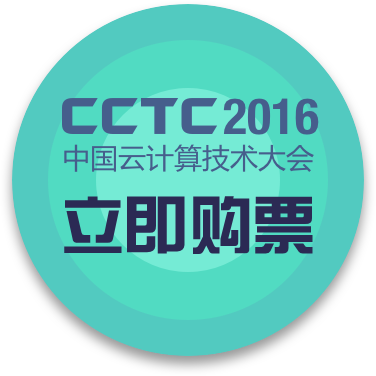
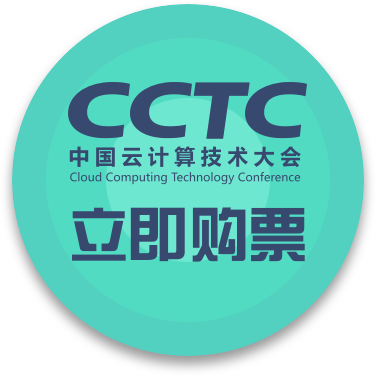
LOGO修改

Changed region(s): [[0.1463, 0.2048, 0.8484, 0.7314]]

diff --git a/index.html b/index.html
@@ -20,11 +20,11 @@
                 <div class="row">
                     <div class="col-md-12 col-sm-12 col-xs-12">
                         <div class="row">
-                            <div class="banner_lf col-md-8 col-sm-6 col-xs-12">
-                                <img src=""/>
-                                <span>中国云计算技术大会</span>
+                            <div class="banner_lf col-md-4 col-sm-6 col-xs-12">
+                                <img src="images/CCTC_cloud.png"/>
+                                <!--<span>中国云计算技术大会</span>-->
                             </div>
-                            <div class="banner_rt col-md-4 col-sm-6 col-xs-12">
+                            <div class="banner_rt col-md-8 col-sm-6 col-xs-12">
                                 <span><img src="images/time.png"/>2016年5月13-14日</span>
                                 <span><img src="images/map.png">北京</span>
                             </div>
@@ -251,46 +251,46 @@
                         <tr>
                             <td style="border-right: none;border-bottom: 2px solid #ced8e1;" rowspan="5" class="table_date col-md-2 col-sm-2 col-xs-2">5.12</td>
                             <td class="col-md-5 col-sm-5 col-xs-5"><span>中美未来的机遇与挑战</span><a href="javascript:;"><img src="images/table_icon.png"/></a>
-                            <div class="pops_box">“中国OpenStack技术峰会”、“中国Spark技术峰会”、“Container技术峰会”三大技术实践峰会带来行业内顶尖技术分享</div>
+                            <div class="pops_box">“中国OpenStack技术峰会”、“中国Spark技术峰会”、“Container技术峰会”三大技术实践峰会带来行业内顶尖技术分享<img src="images/Slice_22.png"/></div>
                             </td>
                             <td class="col-md-5 col-sm-5 col-xs-5"><span>中美未来的机遇与挑战</span><a href="javascript:;"><img src="images/table_icon.png"/></a>
-                                <div class="pops_box">“中国OpenStack技术峰会”、“中国Spark技术峰会”、“Container技术峰会”三大技术实践峰会带来行业内顶尖技术分享</div>
+                                <div class="pops_box">“中国OpenStack技术峰会”、“中国Spark技术峰会”、“Container技术峰会”三大技术实践峰会带来行业内顶尖技术分享<img src="images/Slice_22.png"/></div>
                             </td>
                         </tr>
                         <tr>
 
                             <td class="col-md-5 col-sm-5 col-xs-5"><span>Container技术峰会</span><a href="javascript:;"><img src="images/table_icon.png"/></a>
-                                <div class="pops_box">“中国OpenStack技术峰会”、“中国Spark技术峰会”、“Container技术峰会”三大技术实践峰会带来行业内顶尖技术分享</div>
+                                <div class="pops_box">“中国OpenStack技术峰会”、“中国Spark技术峰会”、“Container技术峰会”三大技术实践峰会带来行业内顶尖技术分享<img src="images/Slice_22.png"/></div>
                             </td>
                             <td class="col-md-5 col-sm-5 col-xs-5"><span>Container技术峰会</span><a href="javascript:;"><img src="images/table_icon.png"/></a>
-                                <div class="pops_box">“中国OpenStack技术峰会”、“中国Spark技术峰会”、“Container技术峰会”三大技术实践峰会带来行业内顶尖技术分享</div>
-                            </td>
-                        </tr>
-                        <tr>
-
-                            <td class="col-md-5 col-sm-5 col-xs-5"><span>Container技术峰会</span><a href="javascript:;"><img src="images/table_icon.png"/></a>
-                                <div class="pops_box">“中国OpenStack技术峰会”、“中国Spark技术峰会”、“Container技术峰会”三大技术实践峰会带来行业内顶尖技术分享</div>
-                            </td>
-                            <td class="col-md-5 col-sm-5 col-xs-5"><span>Container技术峰会</span><a href="javascript:;"><img src="images/table_icon.png"/></a>
-                                <div class="pops_box">“中国OpenStack技术峰会”、“中国Spark技术峰会”、“Container技术峰会”三大技术实践峰会带来行业内顶尖技术分享</div>
+                                <div class="pops_box">“中国OpenStack技术峰会”、“中国Spark技术峰会”、“Container技术峰会”三大技术实践峰会带来行业内顶尖技术分享<img src="images/Slice_22.png"/></div>
                             </td>
                         </tr>
                         <tr>
 
                             <td class="col-md-5 col-sm-5 col-xs-5"><span>Container技术峰会</span><a href="javascript:;"><img src="images/table_icon.png"/></a>
-                                <div class="pops_box">“中国OpenStack技术峰会”、“中国Spark技术峰会”、“Container技术峰会”三大技术实践峰会带来行业内顶尖技术分享</div>
+                                <div class="pops_box">“中国OpenStack技术峰会”、“中国Spark技术峰会”、“Container技术峰会”三大技术实践峰会带来行业内顶尖技术分享<img src="images/Slice_22.png"/></div>
                             </td>
                             <td class="col-md-5 col-sm-5 col-xs-5"><span>Container技术峰会</span><a href="javascript:;"><img src="images/table_icon.png"/></a>
-                                <div class="pops_box">“中国OpenStack技术峰会”、“中国Spark技术峰会”、“Container技术峰会”三大技术实践峰会带来行业内顶尖技术分享</div>
+                                <div class="pops_box">“中国OpenStack技术峰会”、“中国Spark技术峰会”、“Container技术峰会”三大技术实践峰会带来行业内顶尖技术分享<img src="images/Slice_22.png"/></div>
+                            </td>
+                        </tr>
+                        <tr>
+
+                            <td class="col-md-5 col-sm-5 col-xs-5"><span>Container技术峰会</span><a href="javascript:;"><img src="images/table_icon.png"/></a>
+                                <div class="pops_box">“中国OpenStack技术峰会”、“中国Spark技术峰会”、“Container技术峰会”三大技术实践峰会带来行业内顶尖技术分享<img src="images/Slice_22.png"/></div>
+                            </td>
+                            <td class="col-md-5 col-sm-5 col-xs-5"><span>Container技术峰会</span><a href="javascript:;"><img src="images/table_icon.png"/></a>
+                                <div class="pops_box">“中国OpenStack技术峰会”、“中国Spark技术峰会”、“Container技术峰会”三大技术实践峰会带来行业内顶尖技术分享<img src="images/Slice_22.png"/></div>
                             </td>
                         </tr>
                         <tr class="last_line">
 
                             <td class="col-md-5 col-sm-5 col-xs-5"><span>Container技术峰会</span><a href="javascript:;"><img src="images/table_icon.png"/></a>
-                                <div class="pops_box">“中国OpenStack技术峰会”、“中国Spark技术峰会”、“Container技术峰会”三大技术实践峰会带来行业内顶尖技术分享</div>
+                                <div class="pops_box">“中国OpenStack技术峰会”、“中国Spark技术峰会”、“Container技术峰会”三大技术实践峰会带来行业内顶尖技术分享<img src="images/Slice_22.png"/></div>
                             </td>
                             <td class="col-md-5 col-sm-5 col-xs-5"><span>Container技术峰会</span><a href="javascript:;"><img src="images/table_icon.png"/></a>
-                                <div class="pops_box">“中国OpenStack技术峰会”、“中国Spark技术峰会”、“Container技术峰会”三大技术实践峰会带来行业内顶尖技术分享</div>
+                                <div class="pops_box">“中国OpenStack技术峰会”、“中国Spark技术峰会”、“Container技术峰会”三大技术实践峰会带来行业内顶尖技术分享<img src="images/Slice_22.png"/></div>
                             </td>
                         </tr>
 
@@ -300,45 +300,45 @@
                         <tr>
                             <td style="border-right: none;border-bottom: 2px solid #ced8e1;" rowspan="5" class="table_date col-md-2 col-sm-2 col-xs-2">5.13</td>
                             <td class="col-md-5 col-sm-5 col-xs-5"><span>中美未来的机遇与挑战</span><a href="javascript:;"><img src="images/table_icon.png"/></a>
-                                <div class="pops_box">“中国OpenStack技术峰会”、“中国Spark技术峰会”、“Container技术峰会”三大技术实践峰会带来行业内顶尖技术分享</div>
+                                <div class="pops_box">“中国OpenStack技术峰会”、“中国Spark技术峰会”、“Container技术峰会”三大技术实践峰会带来行业内顶尖技术分享<img src="images/Slice_22.png"/></div>
                             </td>
                             <td class="col-md-5 col-sm-5 col-xs-5"><span>中美未来的机遇与挑战</span><a href="javascript:;"><img src="images/table_icon.png"/></a>
-                                <div class="pops_box">“中国OpenStack技术峰会”、“中国Spark技术峰会”、“Container技术峰会”三大技术实践峰会带来行业内顶尖技术分享</div>
+                                <div class="pops_box">“中国OpenStack技术峰会”、“中国Spark技术峰会”、“Container技术峰会”三大技术实践峰会带来行业内顶尖技术分享<img src="images/Slice_22.png"/></div>
                             </td>
                         </tr>
                         <tr>
                             <td class="col-md-5 col-sm-5 col-xs-5"><span>Container技术峰会</span><a href="javascript:;"><img src="images/table_icon.png"/></a>
-                                <div class="pops_box">“中国OpenStack技术峰会”、“中国Spark技术峰会”、“Container技术峰会”三大技术实践峰会带来行业内顶尖技术分享</div>
+                                <div class="pops_box">“中国OpenStack技术峰会”、“中国Spark技术峰会”、“Container技术峰会”三大技术实践峰会带来行业内顶尖技术分享<img src="images/Slice_22.png"/></div>
                             </td>
                             <td class="col-md-5 col-sm-5 col-xs-5"><span>Container技术峰会</span><a href="javascript:;"><img src="images/table_icon.png"/></a>
-                                <div class="pops_box">“中国OpenStack技术峰会”、“中国Spark技术峰会”、“Container技术峰会”三大技术实践峰会带来行业内顶尖技术分享</div>
-                            </td>
-                        </tr>
-                        <tr>
-
-                            <td class="col-md-5 col-sm-5 col-xs-5"><span>Container技术峰会</span><a href="javascript:;"><img src="images/table_icon.png"/></a>
-                                <div class="pops_box">“中国OpenStack技术峰会”、“中国Spark技术峰会”、“Container技术峰会”三大技术实践峰会带来行业内顶尖技术分享</div>
-                            </td>
-                            <td class="col-md-5 col-sm-5 col-xs-5"><span>Container技术峰会</span><a href="javascript:;"><img src="images/table_icon.png"/></a>
-                                <div class="pops_box">“中国OpenStack技术峰会”、“中国Spark技术峰会”、“Container技术峰会”三大技术实践峰会带来行业内顶尖技术分享</div>
+                                <div class="pops_box">“中国OpenStack技术峰会”、“中国Spark技术峰会”、“Container技术峰会”三大技术实践峰会带来行业内顶尖技术分享<img src="images/Slice_22.png"/></div>
                             </td>
                         </tr>
                         <tr>
 
                             <td class="col-md-5 col-sm-5 col-xs-5"><span>Container技术峰会</span><a href="javascript:;"><img src="images/table_icon.png"/></a>
-                                <div class="pops_box">“中国OpenStack技术峰会”、“中国Spark技术峰会”、“Container技术峰会”三大技术实践峰会带来行业内顶尖技术分享</div>
+                                <div class="pops_box">“中国OpenStack技术峰会”、“中国Spark技术峰会”、“Container技术峰会”三大技术实践峰会带来行业内顶尖技术分享<img src="images/Slice_22.png"/></div>
                             </td>
                             <td class="col-md-5 col-sm-5 col-xs-5"><span>Container技术峰会</span><a href="javascript:;"><img src="images/table_icon.png"/></a>
-                                <div class="pops_box">“中国OpenStack技术峰会”、“中国Spark技术峰会”、“Container技术峰会”三大技术实践峰会带来行业内顶尖技术分享</div>
+                                <div class="pops_box">“中国OpenStack技术峰会”、“中国Spark技术峰会”、“Container技术峰会”三大技术实践峰会带来行业内顶尖技术分享<img src="images/Slice_22.png"/></div>
+                            </td>
+                        </tr>
+                        <tr>
+
+                            <td class="col-md-5 col-sm-5 col-xs-5"><span>Container技术峰会</span><a href="javascript:;"><img src="images/table_icon.png"/></a>
+                                <div class="pops_box">“中国OpenStack技术峰会”、“中国Spark技术峰会”、“Container技术峰会”三大技术实践峰会带来行业内顶尖技术分享<img src="images/Slice_22.png"/></div>
+                            </td>
+                            <td class="col-md-5 col-sm-5 col-xs-5"><span>Container技术峰会</span><a href="javascript:;"><img src="images/table_icon.png"/></a>
+                                <div class="pops_box">“中国OpenStack技术峰会”、“中国Spark技术峰会”、“Container技术峰会”三大技术实践峰会带来行业内顶尖技术分享<img src="images/Slice_22.png"/></div>
                             </td>
                         </tr>
                         <tr class="last_line">
 
                             <td class="col-md-5 col-sm-5 col-xs-5"><span>Container技术峰会</span><a href="javascript:;"><img src="images/table_icon.png"/></a>
-                                <div class="pops_box">“中国OpenStack技术峰会”、“中国Spark技术峰会”、“Container技术峰会”三大技术实践峰会带来行业内顶尖技术分享</div>
+                                <div class="pops_box">“中国OpenStack技术峰会”、“中国Spark技术峰会”、“Container技术峰会”三大技术实践峰会带来行业内顶尖技术分享<img src="images/Slice_22.png"/></div>
                             </td>
                             <td class="col-md-5 col-sm-5 col-xs-5"><span>Container技术峰会</span><a href="javascript:;"><img src="images/table_icon.png"/></a>
-                                <div class="pops_box">“中国OpenStack技术峰会”、“中国Spark技术峰会”、“Container技术峰会”三大技术实践峰会带来行业内顶尖技术分享</div>
+                                <div class="pops_box">“中国OpenStack技术峰会”、“中国Spark技术峰会”、“Container技术峰会”三大技术实践峰会带来行业内顶尖技术分享<img src="images/Slice_22.png"/></div>
                             </td>
                         </tr>
                         </tbody>
@@ -347,36 +347,36 @@
                         <tr>
                             <td style="border-right: none;" rowspan="5" class="table_date col-md-2 col-sm-2 col-xs-2">5.14</td>
                             <td class="col-md-5 col-sm-5 col-xs-5"><span>中美未来的机遇与挑战</span><a href="javascript:;"><img src="images/table_icon.png"/></a>
-                                <div class="pops_box">“中国OpenStack技术峰会”、“中国Spark技术峰会”、“Container技术峰会”三大技术实践峰会带来行业内顶尖技术分享</div>
+                                <div class="pops_box">“中国OpenStack技术峰会”、“中国Spark技术峰会”、“Container技术峰会”三大技术实践峰会带来行业内顶尖技术分享<img src="images/Slice_22.png"/></div>
                             </td>
                             <td class="col-md-5 col-sm-5 col-xs-5"><span>中美未来的机遇与挑战</span><a href="javascript:;"><img src="images/table_icon.png"/></a>
-                                <div class="pops_box">“中国OpenStack技术峰会”、“中国Spark技术峰会”、“Container技术峰会”三大技术实践峰会带来行业内顶尖技术分享</div>
+                                <div class="pops_box">“中国OpenStack技术峰会”、“中国Spark技术峰会”、“Container技术峰会”三大技术实践峰会带来行业内顶尖技术分享<img src="images/Slice_22.png"/></div>
                             </td>
                         </tr>
                         <tr>
                             <td class="col-md-5 col-sm-5 col-xs-5"><span>Container技术峰会</span><a href="javascript:;"><img src="images/table_icon.png"/></a>
-                                <div class="pops_box">“中国OpenStack技术峰会”、“中国Spark技术峰会”、“Container技术峰会”三大技术实践峰会带来行业内顶尖技术分享</div>
+                                <div class="pops_box">“中国OpenStack技术峰会”、“中国Spark技术峰会”、“Container技术峰会”三大技术实践峰会带来行业内顶尖技术分享<img src="images/Slice_22.png"/></div>
                             </td>
                             <td class="col-md-5 col-sm-5 col-xs-5"><span>Container技术峰会</span><a href="javascript:;"><img src="images/table_icon.png"/></a>
-                                <div class="pops_box">“中国OpenStack技术峰会”、“中国Spark技术峰会”、“Container技术峰会”三大技术实践峰会带来行业内顶尖技术分享</div>
-                            </td>
-                        </tr>
-                        <tr>
-
-                            <td class="col-md-5 col-sm-5 col-xs-5"><span>Container技术峰会</span><a href="javascript:;"><img src="images/table_icon.png"/></a>
-                                <div style="top: -90px" class="pops_box">“中国OpenStack技术峰会”、“中国Spark技术峰会”、“Container技术峰会”三大技术实践峰会带来行业内顶尖技术分享</div>
-                            </td>
-                            <td class="col-md-5 col-sm-5 col-xs-5"><span>Container技术峰会</span><a href="javascript:;"><img src="images/table_icon.png"/></a>
-                                <div style="top: -90px" class="pops_box">“中国OpenStack技术峰会”、“中国Spark技术峰会”、“Container技术峰会”三大技术实践峰会带来行业内顶尖技术分享</div>
+                                <div class="pops_box">“中国OpenStack技术峰会”、“中国Spark技术峰会”、“Container技术峰会”三大技术实践峰会带来行业内顶尖技术分享<img src="images/Slice_22.png"/></div>
                             </td>
                         </tr>
                         <tr>
 
                             <td class="col-md-5 col-sm-5 col-xs-5"><span>Container技术峰会</span><a href="javascript:;"><img src="images/table_icon.png"/></a>
-                                <div style="top: -90px" class="pops_box">“中国OpenStack技术峰会”、“中国Spark技术峰会”、“Container技术峰会”三大技术实践峰会带来行业内顶尖技术分享</div>
+                                <div style="top: -100px" class="pops_box">“中国OpenStack技术峰会”、“中国Spark技术峰会”、“Container技术峰会”三大技术实践峰会带来行业内顶尖技术分享<img style="top: 100px;-webkit-transform:rotate(180deg)" src="images/Slice_22.png"/></div>
                             </td>
                             <td class="col-md-5 col-sm-5 col-xs-5"><span>Container技术峰会</span><a href="javascript:;"><img src="images/table_icon.png"/></a>
-                                <div style="top: -90px" class="pops_box">“中国OpenStack技术峰会”、“中国Spark技术峰会”、“Container技术峰会”三大技术实践峰会带来行业内顶尖技术分享</div>
+                                <div style="top: -100px" class="pops_box">“中国OpenStack技术峰会”、“中国Spark技术峰会”、“Container技术峰会”三大技术实践峰会带来行业内顶尖技术分享<img style="top: 100px;-webkit-transform:rotate(180deg)" src="images/Slice_22.png"/></div>
+                            </td>
+                        </tr>
+                        <tr>
+
+                            <td class="col-md-5 col-sm-5 col-xs-5"><span>Container技术峰会</span><a href="javascript:;"><img src="images/table_icon.png"/></a>
+                                <div style="top: -100px" class="pops_box">“中国OpenStack技术峰会”、“中国Spark技术峰会”、“Container技术峰会”三大技术实践峰会带来行业内顶尖技术分享<img style="top: 100px;-webkit-transform:rotate(180deg)" src="images/Slice_22.png"/></div>
+                            </td>
+                            <td class="col-md-5 col-sm-5 col-xs-5"><span>Container技术峰会</span><a href="javascript:;"><img src="images/table_icon.png"/></a>
+                                <div style="top: -100px" class="pops_box">“中国OpenStack技术峰会”、“中国Spark技术峰会”、“Container技术峰会”三大技术实践峰会带来行业内顶尖技术分享<img style="top: 100px;-webkit-transform:rotate(180deg)" src="images/Slice_22.png"/></div>
                             </td>
                         </tr>
                         </tbody>
@@ -446,8 +446,8 @@
                             </thead>
                             <tbody class="table_boy_commend">
                                 <tr>
-                                    <td rowspan="5" class="table_date col-md-3 col-sm-3 col-xs-3">5.14</td>
-                                    <td style="background: #f2f5fa;font-size: 14px;color:#37496E;padding-top: 25px" class="col-md-3 col-sm-3 col-xs-3">08:30-12:00</td>
+                                    <td rowspan="5" id="table_data_Commend" class="table_date col-md-3 col-sm-3 col-xs-3">5.14</td>
+                                    <td style="font-size: 14px;color:#37496E;padding-top: 25px" class="col-md-3 col-sm-3 col-xs-3 table_boy_commend_middle">08:30-12:00</td>
                                     <td class="col-md-6 col-sm-6 col-xs-6 Commend_first">
                                         <span>全体大会全体大会</span>
                                         <em>尼克松</em>
@@ -455,7 +455,7 @@
                                     </td>
                                 </tr>
                                 <tr>
-                                    <td style="background: #f2f5fa" class="col-md-3 col-sm-3 col-xs-3"><span style="display: block;position: relative;top:-52px">13:30-18:00</span></td>
+                                    <td class="col-md-3 col-sm-3 col-xs-3 table_boy_commend_middle"><span style="display: block;position: relative;top:-52px">13:30-18:00</span></td>
                                     <td class="col-md-6 col-sm-6 col-xs-6 commend_second" style="text-align: left"><span>OpenSack技术峰会</span>
                                     <em class="col-md-12 col-sm-12 col-xs-12">白小勇<br>炼石网络CipherGateway</em>
                                     <em class="col-md-12 col-sm-12 col-xs-12">白小勇<br>炼石网络CipherGateway</em>
@@ -463,11 +463,11 @@
                                     </td>
                                 </tr>
                                 <tr >
-                                    <td style="background: #f2f5fa" class="col-md-3 col-sm-3 col-xs-3">19:00-21:00</td>
+                                    <td class="col-md-3 col-sm-3 col-xs-3 table_boy_commend_middle">19:00-21:00</td>
                                     <td class="col-md-3 col-sm-3 col-xs-3 Commend_first"><span style="margin-top: 16px">程序人生</span><em style="margin-top: 18px">尼克松</em><div class="under_line"></div></td>
                                 </tr>
                                 <tr>
-                                    <td style="background: #f2f5fa" class="col-md-3 col-sm-3 col-xs-3"><span style="position: relative;top: 20px">08:30-12:00</span></td>
+                                    <td class="col-md-3 col-sm-3 col-xs-3 table_boy_commend_middle"><span style="position: relative;top: 20px">08:30-12:00</span></td>
                                     <td class="col-md-3 col-sm-3 col-xs-3 Commend_first"><span>全体大会全体大会</span><em>尼克松</em></td>
                                 </tr>
                             </tbody>
@@ -498,8 +498,8 @@
             </div>
                 <div class="guest_speaker">
                     <div class="row">
-                        <h2 class="meet_title col-xs-12">演讲嘉宾</h2>
-                        <a href="#" id="check_more_mobile" class="check_more col-xs-12">查看更多</a>
+                        <h2 class="meet_title col-xs-12 col-md-10 col-sm-9">演讲嘉宾</h2>
+                        <a href="#" id="check_more_mobile" class="check_more col-xs-12 col-md-2 col-sm-3">查看更多</a>
                             <div class="speaker_list">
                                 <div class="speaker_content">
                                     <div class="speak_user">
@@ -743,10 +743,12 @@
             </div>
             <div class="bottom_banner">
                 <div class="row">
-                    <p class="col-md-3 col-sm-3 col-xs-6">联系我们<br>010-51661202<br>cctc@csdn.net</p>
-                    <p class="col-md-3 col-sm-3 col-xs-6">商务合作<br>010-51661202<br>cctc@csdn.net</p>
-                    <p class="col-md-3 col-sm-3 col-xs-6">票务咨询<br>010-51661202<br>cctc@csdn.net</p>
-                    <a class="col-md-3 col-sm-3 col-xs-6" href="#"><img src="images/CCTC_icon.jpg"/></a>
+                    <p id="contact_us_first" class="col-md-3 col-sm-5 col-xs-12">联系我们<br>010-51661202<br>cctc@csdn.net</p>
+                    <p class="col-md-3 col-sm-6 col-xs-12">商务合作<br>010-51661202<br>cctc@csdn.net</p>
+                    <p id="contact_us_iPad" class="col-md-2 col-sm-5 col-xs-12">票务咨询<br>010-51661202<br>cctc@csdn.net</p>
+                    <div class="bottom_banner_icon col-md-3 col-sm-6 col-xs-12">
+                        <img src="images/banner_bottom.png"/>
+                    </div>
                 </div>
             </div>
     </div>

diff --git a/css/main.css b/css/main.css
@@ -15,6 +15,8 @@ html { overflow-x: hidden; }
 .main {width: 100%;}
 .banner {background:#5885B8;line-height: 90px;}
 .banner_lf span {font-size: 36px;color: #ffffff}
+.banner_lf img {width: 100%}
+.banner_rt {text-align: right}
 .banner_rt span {padding-right: 20px;font-size: 16px;}
 .banner_rt span img {display: inline-block;width: 20px;height: 20px;margin-right: 10px}
 
@@ -127,15 +129,18 @@ html { overflow-x: hidden; }
 .table_title tr th {font-size: 17px;color: #ffffff;text-align: center;height: 40px;line-height: 40px;background:#5885B8;border-right: 2px solid #ffffff;font-weight: normal}
 /*.table_title tr th:nth-child(1) {background: #37496E;}*/
 .meet_title {margin-bottom: 25px}
-.table_boy {text-align: left;font-size: 16px;line-height: 20px;}
-.table_boy tr td {color: #6C7FA6;height:62px;border-right: 2px solid #ced8e1;position: relative}
+.table_boy {text-align: left;font-size: 16px;line-height: 20px;background: url("../images/table_bg.png")repeat}
+.table_boy tr td {color: #6C7FA6;height:62px;border-right: 2px solid #ced8e1;position: relative;}
 .table_boy tr td:last-child {border-right: none}
 .table_boy tr td span {display: inline-block;margin-left:42px}
-.table_boy tr:nth-child(even) >td {background:#f2f5fa}
+.table_boy tr:nth-child(even) >td {background:#f2f5fa url("../images/table_bg.png")repeat}
 .table_boy tr td a img {display: inline-block;width: 20px;height: 20px;float: right;margin-right: 30px}
-.table_date {color:#5885B8;font-size: 30px;font-weight: bold;background:#dff1f5;text-align: center}
+.table_date {color:#5885B8;font-size: 30px;font-weight: bold;background:#E9F1F8 url("../images/table_bg.png")repeat;text-align: center}
 .last_line td {border-bottom: 2px solid #ced8e1;}
-.pops_box {position: absolute;z-index: 999;right: 0;top: 50px;display: none;background: #ffffff;font-size: 16px;color:#6C7FA6;padding: 20px;border: 1px solid #5885B8}
+.pops_box {position: absolute;z-index: 999;right: 0;top: 60px;display: none;background: #ffffff;font-size: 16px;color:#2d3246;padding: 20px;border: 1px solid #cedcec;border-radius: 3px;text-align: justify;}
+.pops_box img {position: absolute;top: -12px;right: 44px}
+
+
 .meet_preview_mobile {display: none}
 .index-mobile-ctcc strong {font-size: 14px;color: #666}
 .index-mobile-ctcc p {font-size: 14px;color:#6C7FA6;display: inline-block;font-weight: bold}
@@ -160,7 +165,7 @@ html { overflow-x: hidden; }
 .special_commend {background: #ffffff;box-shadow:0 1px 3px #ccc;overflow: hidden;}
 .commend_left p {font-size: 16px;line-height: 24px;color:#6C7FA6;padding-bottom: 20px;padding-left:50px;text-align: justify}
 .commend_left {margin-right: 83px}
-.table_boy_commend tr td {font-size:14px;line-height: 17px;color:#37496E;text-align: center}
+.table_boy_commend tr td {font-size:14px;line-height: 17px;color:#37496E;text-align: center;background: url("../images/table_bg.png")repeat}
 .table_boy_commend tr td em {color:#6C7FA6;font-style: normal}
 .table_boy_commend tr:nth-child(1)>td {height:75px;font-size: 30px;line-height: 36px;color: #5885B8}
 .table_boy_commend tr:nth-child(2)>td {height: 150px}
@@ -174,6 +179,8 @@ html { overflow-x: hidden; }
 .commend_second span {color: #37496E;font-size: 17px;font-weight: bold;display: inline-block;margin-top: 14px;margin-left: 10px}
 .commend_second em {font-size: 14px;color:#6C7FA6;line-height: 20px;margin-top: 12px;margin-left: 10px}
 .commend_right_mobile {display: none}
+.table_boy_commend_middle {background: #f2f5fa}
+#table_data_Commend {background: #E9F1F8 url("../images/table_bg.png")repeat}
 
 
 @media (max-width: 768px) {
@@ -194,7 +201,7 @@ html { overflow-x: hidden; }
 /*演讲嘉宾*/
 .guest_speaker,.join_meeting,.Traffic_guide,.Sponsorship {background: #ffffff;box-shadow:0 1px 3px #ccc;overflow: hidden;margin-top: 40px}
 .guest_speaker h2,.guest_speaker a {display: inline-block}
-.check_more {float: right;margin-top: 50px;margin-right:50px;font-size: 14px;line-height: 20px;color: #5885B8;text-decoration: none }
+.check_more {float: right;margin-top: 63px;margin-right:-76px;font-size: 14px;line-height: 20px;color: #5885B8;text-decoration: none }
 
 .speaker_list {clear: both;overflow: hidden}
 .speaker_content {float: left;margin-right: 15px;margin-bottom: 15px}
@@ -259,9 +266,27 @@ html { overflow-x: hidden; }
 }
 
 /*底部banner*/
-.bottom_banner {background: url("../images/bottom_banner.png")no-repeat;margin-top: 40px;text-align: center;margin-bottom: 50px}
+.bottom_banner {background: url("../images/bottom_banner.png")no-repeat;margin-top: 40px;text-align: left;margin-bottom: 50px}
 .bottom_banner p {font-size: 18px;line-height: 26px;color: #ffffff;margin: 40px 0 50px 0}
-.bottom_banner a img {margin-top:58px;}
+.bottom_banner_icon {margin:40px 0 50px 0;text-align: right}
+.bottom_banner_icon img {width: 187px;height: 78px}
+
+
+#contact_us_first {margin-left: 40px}
+
+@media (max-width: 414px) {
+    .bottom_banner {text-align: center;background-repeat: repeat-y}
+    #contact_us_first,#contact_us_iPad {margin-left: 0;text-align: center}
+    .bottom_banner p {margin-bottom: 15px}
+    .bottom_banner_icon {text-align: center}
+}
+
+@media (min-width: 414px) and (max-width: 768px) {
+    .bottom_banner {text-align: center}
+    #contact_us_iPad {margin-left: 40px}
+    .bottom_banner_icon {text-align: center}
+    .bottom_banner p {margin-bottom: 15px}
+}
 
 /*悬浮*/
 .buy_ticket_suspend {position: fixed;z-index: 900;right: 10px;bottom: 10px}
